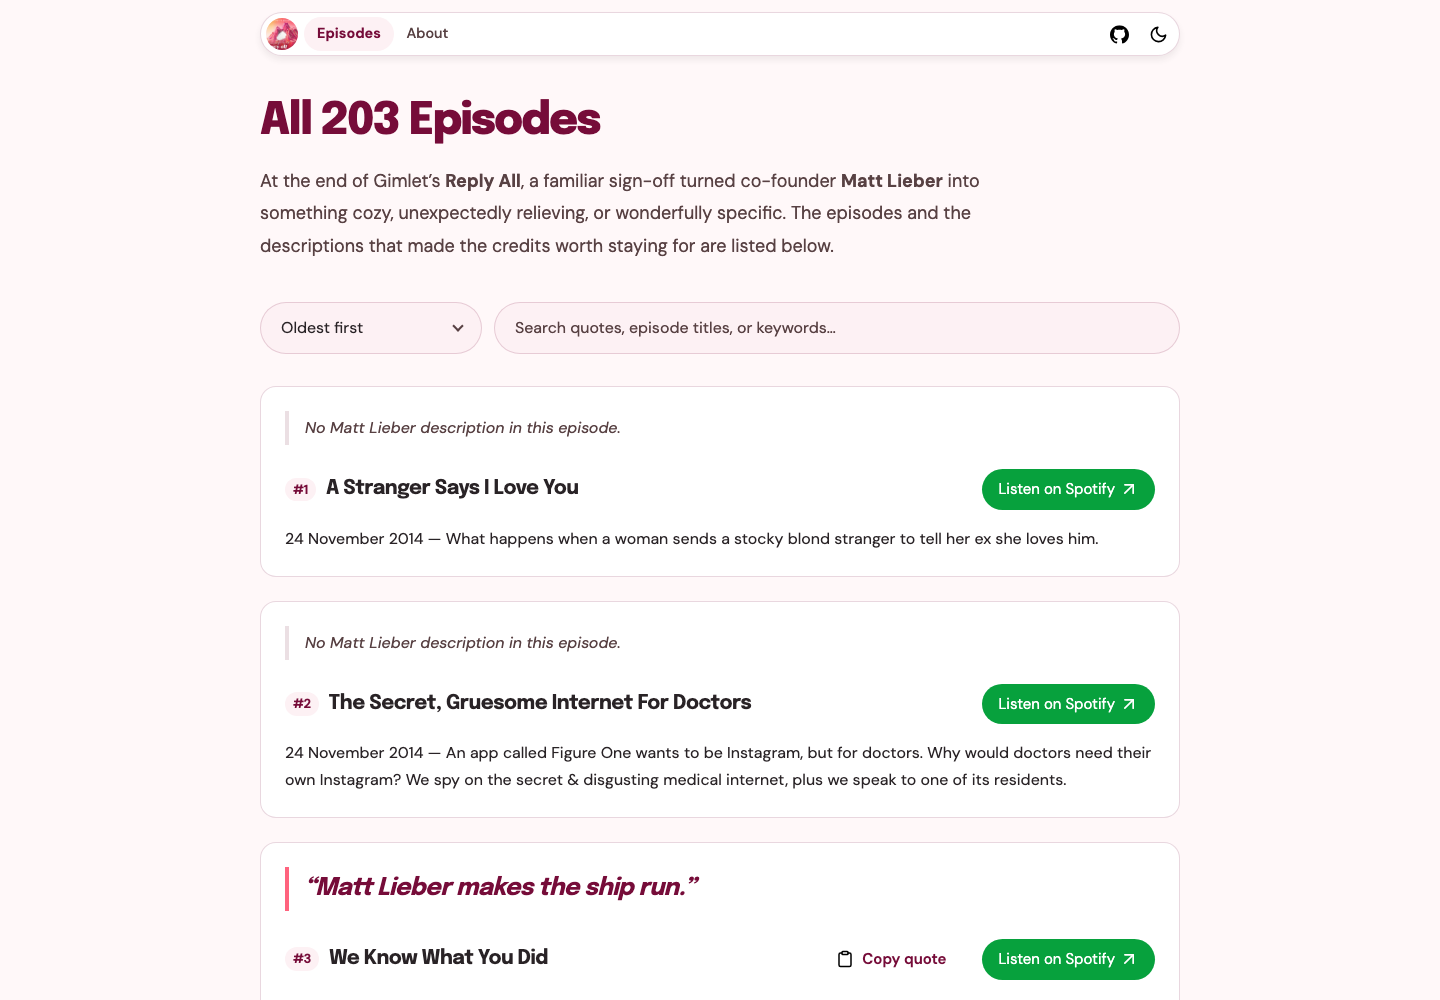
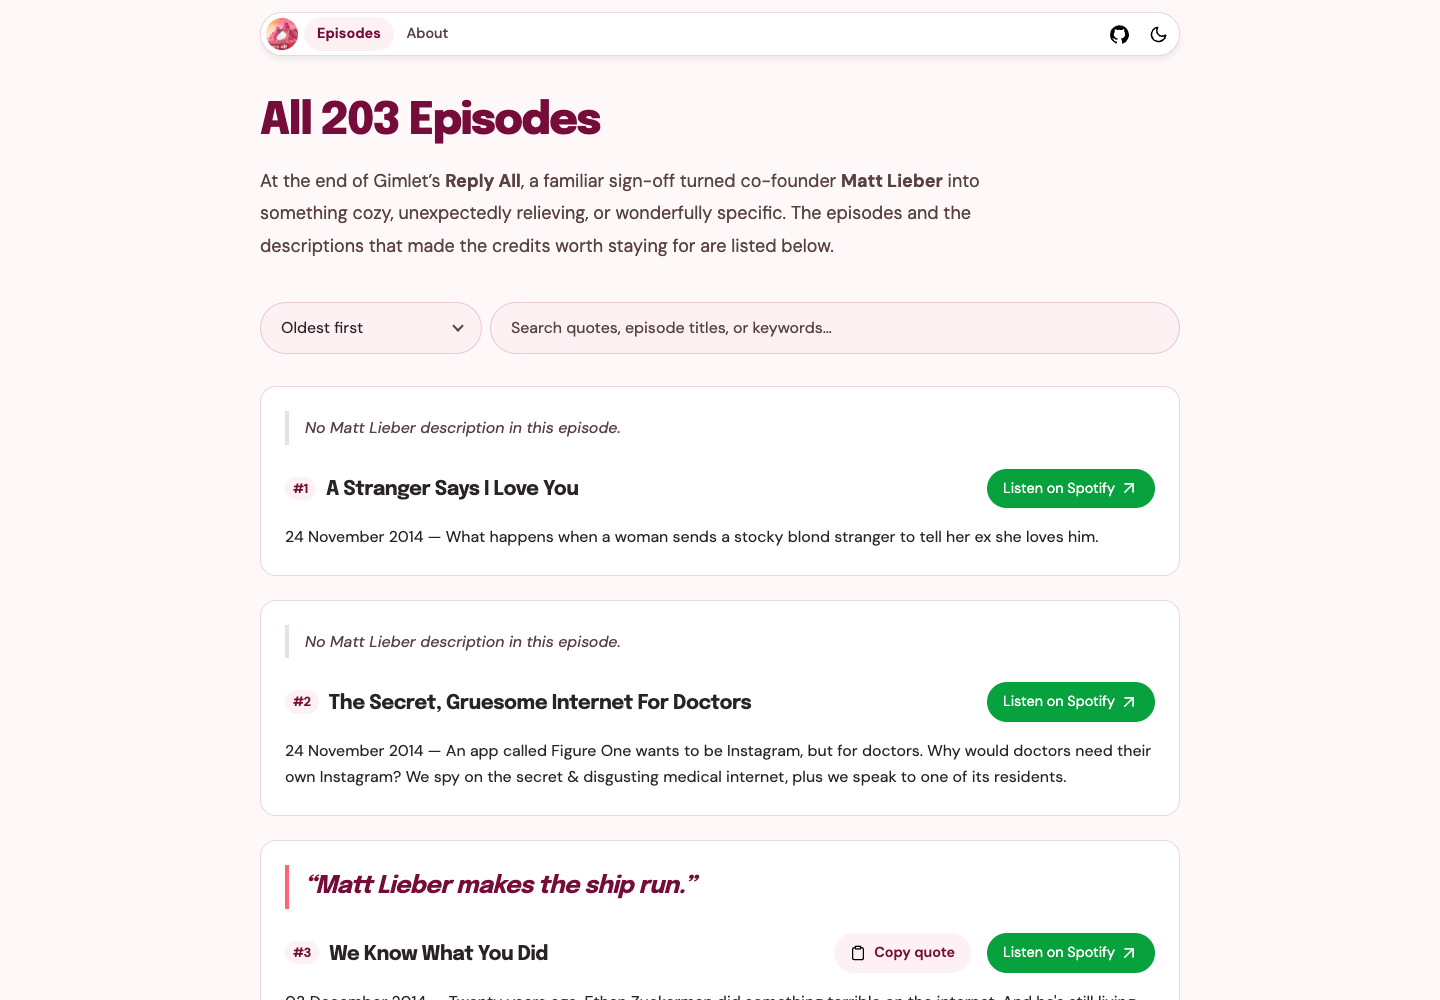
Refresh README screenshots for all three pages
Replace the Home, Episodes, and About screenshots with new desktop captures at 1440 by 1000. Update the README alt text to match the current pages and their controls.

diff --git a/README.md b/README.md
@@ -15,15 +15,15 @@ This project is a compilation of all the affectionate, unexpected, and wonderful
 
 ### Home
 
-![Home page showing a Matt Lieber quote from “Silence And Respect” above the Next description and copy buttons.](./docs/screenshots/home.png)
+![Home page showing a Matt Lieber quote from “Fool’s Trade” with buttons to show another quote or copy it.](./docs/screenshots/home.png)
 
 ### Episodes
 
-![The archive of 203 episodes with search, sorting, and links to listen on Spotify.](./docs/screenshots/episodes.png)
+![Archive of 203 episodes with search and sort controls, plus Copy quote and Listen on Spotify buttons.](./docs/screenshots/episodes.png)
 
 ### About
 
-![The About page with a short biography of Matt Lieber, project files, and a related archive.](./docs/screenshots/about.png)
+![About page with a short biography of Matt Lieber and links to the project repository and a related archive.](./docs/screenshots/about.png)
 
 ## Features
 
@@ -52,7 +52,7 @@ Open the index.html file as a live preview in vscode to see your changes reflect
 | [src/styles/styles.css](./src/styles/styles.css)         | Shared styles, responsive layouts, and themes.                           |
 | [public/mattlieber.json](./public/mattlieber.json)       | Episode metadata and transcribed Matt Lieber descriptions.               |
 | [public/](./public/)                                     | Images, icons, and other static assets.                                  |
-| [docs/screenshots/](./docs/screenshots/)                 | Screenshots of the deployed Home, Episodes, and About pages.             |
+| [docs/screenshots/](./docs/screenshots/)                 | Desktop screenshots of the Home, Episodes, and About pages.              |
 | [stitch/matt-lieber-is/](./stitch/matt-lieber-is/)       | Design references, separate from the site’s page entry points.           |
 
 ## Contributing
